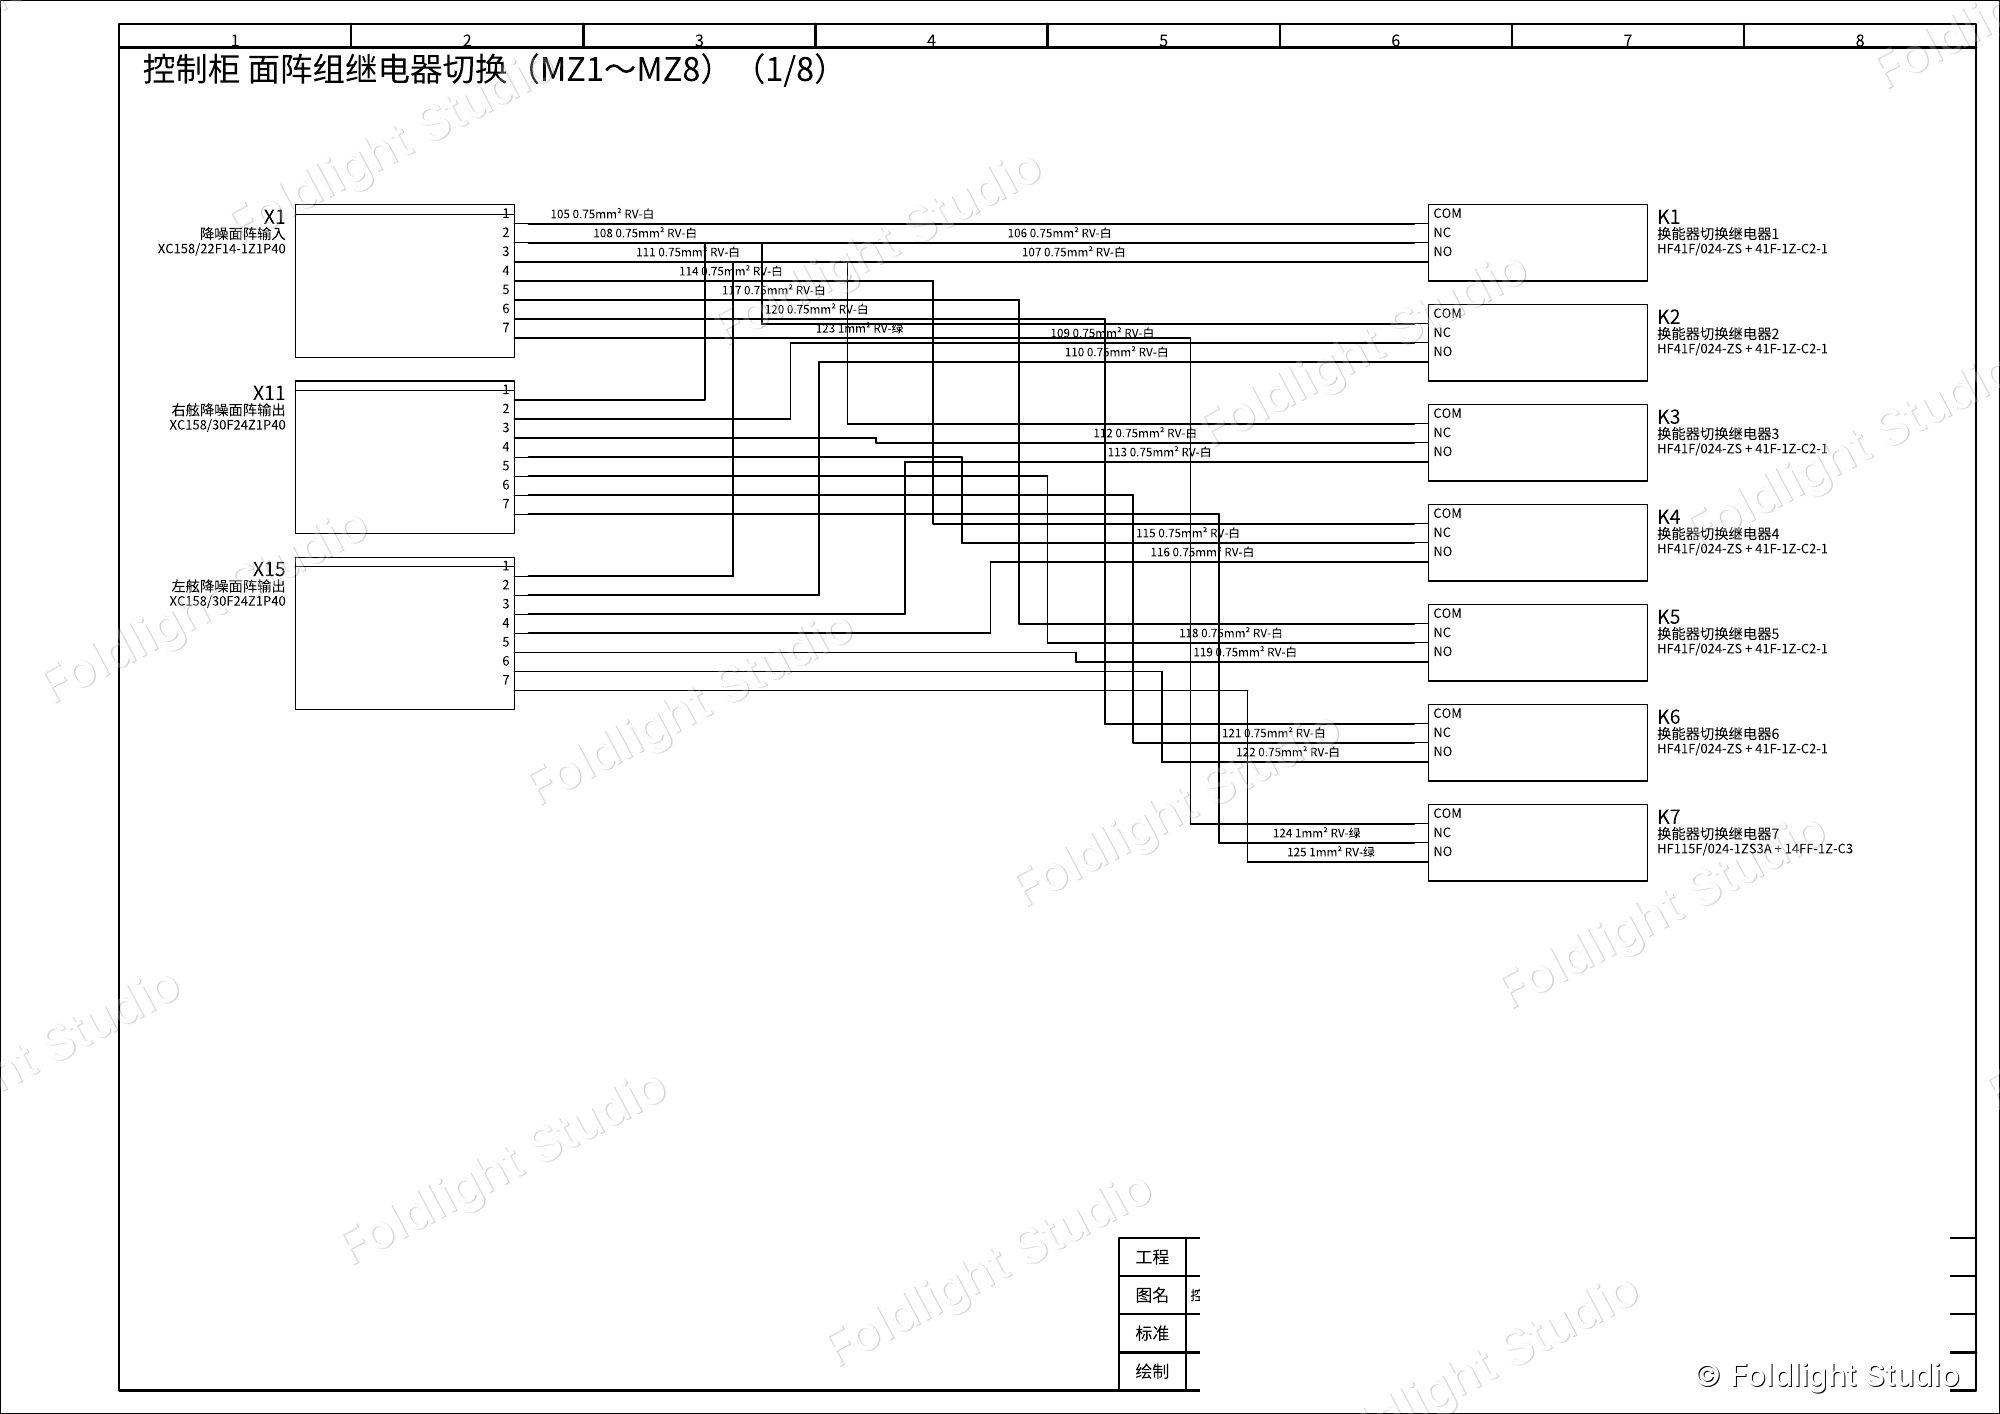
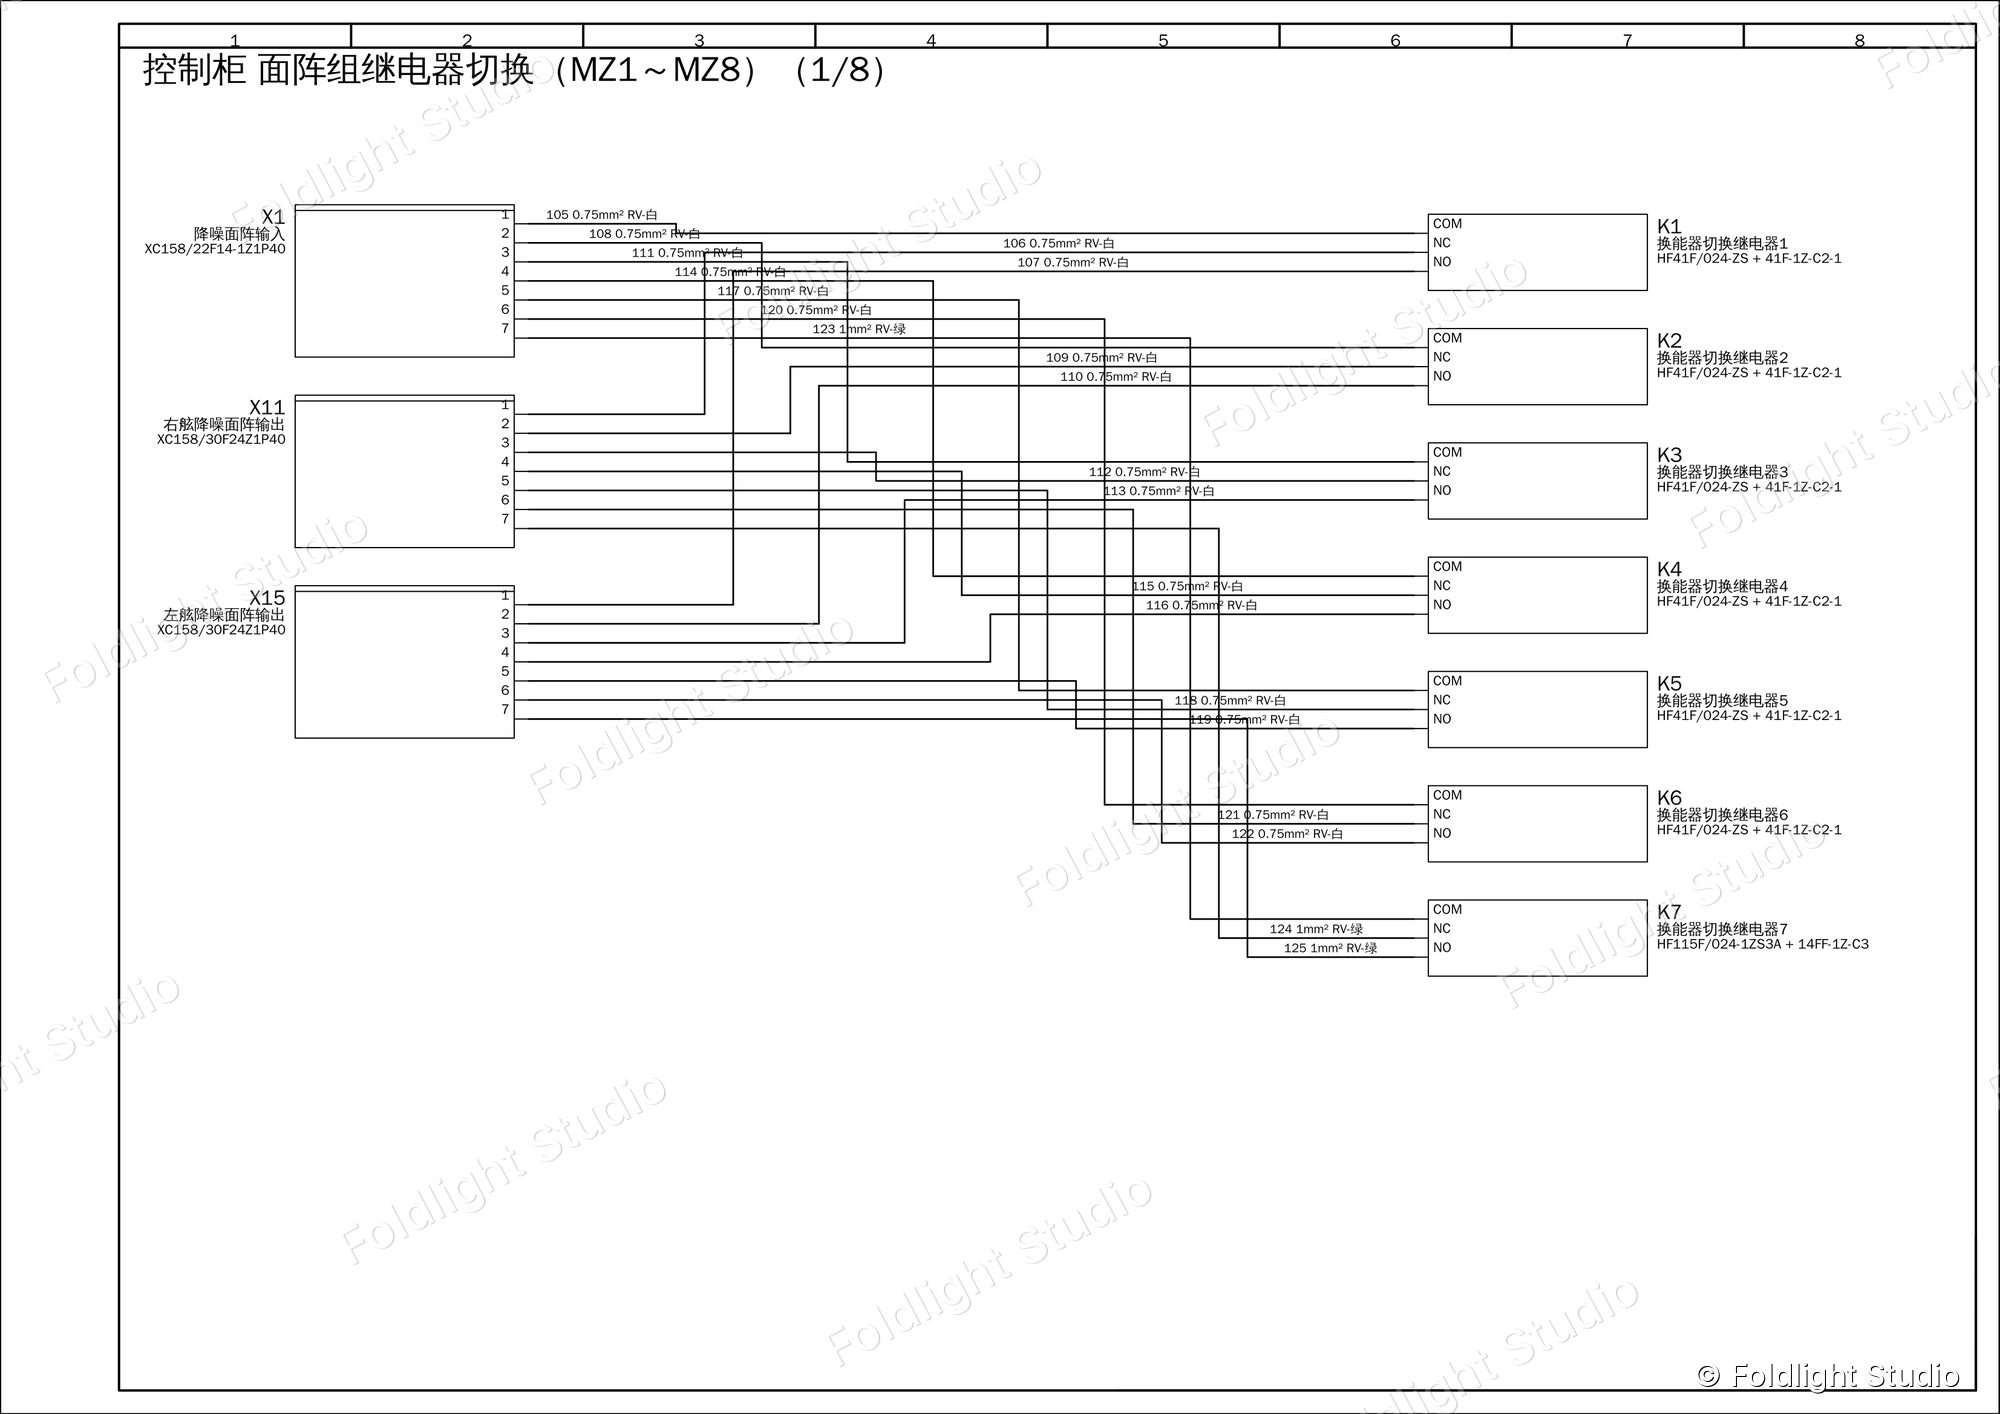
2026-11-15 Foldlight 控制系统电气图内页从出图文件重新导出，去掉旧样稿水印

diff --git a/index.html b/index.html
@@ -848,8 +848,8 @@ h1,h2,h3,p{margin:0;font-weight:inherit}
         </div>
       </header>
       <div class="gal" data-gal>
-        <div class="gt" tabindex="0" role="region" aria-label="Images / 作品图片"><figure class="gs"><img src="img/w/ctl-01.jpg" width="2000" height="1414" alt="图纸目录" data-alt-en="Drawing list" loading="lazy" decoding="async"><figcaption><span><span class="l-zh">图纸目录</span><span class="l-en">Drawing list</span></span></figcaption></figure><figure class="gs"><img src="img/w/ctl-02.jpg" width="2000" height="1414" alt="配电进线和保护" data-alt-en="Incoming supply and protection" loading="lazy" decoding="async"><figcaption><span><span class="l-zh">配电进线和保护</span><span class="l-en">Incoming supply and protection</span></span></figcaption></figure><figure class="gs"><img src="img/w/ctl-03.jpg" width="2000" height="1414" alt="交流配电支路" data-alt-en="AC distribution" loading="lazy" decoding="async"><figcaption><span><span class="l-zh">交流配电支路</span><span class="l-en">AC distribution</span></span></figcaption></figure><figure class="gs"><img src="img/w/ctl-05.jpg" width="2000" height="1414" alt="24V 控制和状态信号" data-alt-en="24 V control and status" loading="lazy" decoding="async"><figcaption><span><span class="l-zh">24V 控制和状态信号</span><span class="l-en">24 V control and status</span></span></figcaption></figure><figure class="gs"><img src="img/w/ctl-12.jpg" width="2000" height="1414" alt="继电器输出" data-alt-en="Relay outputs" loading="lazy" decoding="async"><figcaption><span><span class="l-zh">继电器输出</span><span class="l-en">Relay outputs</span></span></figcaption></figure><figure class="gs"><img src="img/w/ctl-28.jpg" width="2000" height="1414" alt="输出接线" data-alt-en="Output wiring" loading="lazy" decoding="async"><figcaption><span><span class="l-zh">输出接线</span><span class="l-en">Output wiring</span></span></figcaption></figure><figure class="gs"><img src="img/w/ctl-34.jpg" width="2000" height="1414" alt="RS-485 通讯接线" data-alt-en="RS-485 wiring" loading="lazy" decoding="async"><figcaption><span><span class="l-zh">RS-485 通讯接线</span><span class="l-en">RS-485 wiring</span></span></figcaption></figure></div>
-        <div class="gbar"><span class="gc"><b class="gi">1</b> / 7</span><span class="gnav"><button type="button" class="gp" aria-label="Previous / 上一张" disabled>&#8592;</button><button type="button" class="gn" aria-label="Next / 下一张">&#8594;</button></span></div><div class="gth"><button type="button" data-i="0" aria-label="1 / 7" aria-current="true"><img src="img/t/ctl-01.jpg" alt="" loading="lazy" decoding="async"></button><button type="button" data-i="1" aria-label="2 / 7"><img src="img/t/ctl-02.jpg" alt="" loading="lazy" decoding="async"></button><button type="button" data-i="2" aria-label="3 / 7"><img src="img/t/ctl-03.jpg" alt="" loading="lazy" decoding="async"></button><button type="button" data-i="3" aria-label="4 / 7"><img src="img/t/ctl-05.jpg" alt="" loading="lazy" decoding="async"></button><button type="button" data-i="4" aria-label="5 / 7"><img src="img/t/ctl-12.jpg" alt="" loading="lazy" decoding="async"></button><button type="button" data-i="5" aria-label="6 / 7"><img src="img/t/ctl-28.jpg" alt="" loading="lazy" decoding="async"></button><button type="button" data-i="6" aria-label="7 / 7"><img src="img/t/ctl-34.jpg" alt="" loading="lazy" decoding="async"></button></div>
+        <div class="gt" tabindex="0" role="region" aria-label="Images / 作品图片"><figure class="gs"><img src="img/w/ctl-01.jpg?v=1115e" width="2000" height="1414" alt="图纸目录" data-alt-en="Drawing list" loading="lazy" decoding="async"><figcaption><span><span class="l-zh">图纸目录</span><span class="l-en">Drawing list</span></span></figcaption></figure><figure class="gs"><img src="img/w/ctl-02.jpg?v=1115e" width="2000" height="1414" alt="配电进线和保护" data-alt-en="Incoming supply and protection" loading="lazy" decoding="async"><figcaption><span><span class="l-zh">配电进线和保护</span><span class="l-en">Incoming supply and protection</span></span></figcaption></figure><figure class="gs"><img src="img/w/ctl-03.jpg?v=1115e" width="2000" height="1414" alt="交流配电支路" data-alt-en="AC distribution" loading="lazy" decoding="async"><figcaption><span><span class="l-zh">交流配电支路</span><span class="l-en">AC distribution</span></span></figcaption></figure><figure class="gs"><img src="img/w/ctl-05.jpg?v=1115e" width="2000" height="1414" alt="24V 控制和状态信号" data-alt-en="24 V control and status" loading="lazy" decoding="async"><figcaption><span><span class="l-zh">24V 控制和状态信号</span><span class="l-en">24 V control and status</span></span></figcaption></figure><figure class="gs"><img src="img/w/ctl-12.jpg?v=1115e" width="2000" height="1414" alt="继电器输出" data-alt-en="Relay outputs" loading="lazy" decoding="async"><figcaption><span><span class="l-zh">继电器输出</span><span class="l-en">Relay outputs</span></span></figcaption></figure><figure class="gs"><img src="img/w/ctl-28.jpg?v=1115e" width="2000" height="1414" alt="输出接线" data-alt-en="Output wiring" loading="lazy" decoding="async"><figcaption><span><span class="l-zh">输出接线</span><span class="l-en">Output wiring</span></span></figcaption></figure><figure class="gs"><img src="img/w/ctl-34.jpg?v=1115e" width="2000" height="1414" alt="RS-485 通讯接线" data-alt-en="RS-485 wiring" loading="lazy" decoding="async"><figcaption><span><span class="l-zh">RS-485 通讯接线</span><span class="l-en">RS-485 wiring</span></span></figcaption></figure></div>
+        <div class="gbar"><span class="gc"><b class="gi">1</b> / 7</span><span class="gnav"><button type="button" class="gp" aria-label="Previous / 上一张" disabled>&#8592;</button><button type="button" class="gn" aria-label="Next / 下一张">&#8594;</button></span></div><div class="gth"><button type="button" data-i="0" aria-label="1 / 7" aria-current="true"><img src="img/t/ctl-01.jpg?v=1115e" alt="" loading="lazy" decoding="async"></button><button type="button" data-i="1" aria-label="2 / 7"><img src="img/t/ctl-02.jpg?v=1115e" alt="" loading="lazy" decoding="async"></button><button type="button" data-i="2" aria-label="3 / 7"><img src="img/t/ctl-03.jpg?v=1115e" alt="" loading="lazy" decoding="async"></button><button type="button" data-i="3" aria-label="4 / 7"><img src="img/t/ctl-05.jpg?v=1115e" alt="" loading="lazy" decoding="async"></button><button type="button" data-i="4" aria-label="5 / 7"><img src="img/t/ctl-12.jpg?v=1115e" alt="" loading="lazy" decoding="async"></button><button type="button" data-i="5" aria-label="6 / 7"><img src="img/t/ctl-28.jpg?v=1115e" alt="" loading="lazy" decoding="async"></button><button type="button" data-i="6" aria-label="7 / 7"><img src="img/t/ctl-34.jpg?v=1115e" alt="" loading="lazy" decoding="async"></button></div>
       </div>
       <p class="pn"><span><span class="l-zh">客户名称、logo、联系方式和型号已遮挡。</span><span class="l-en">Client names, logos, contact details and model numbers are masked.</span></span></p>
     </div>
